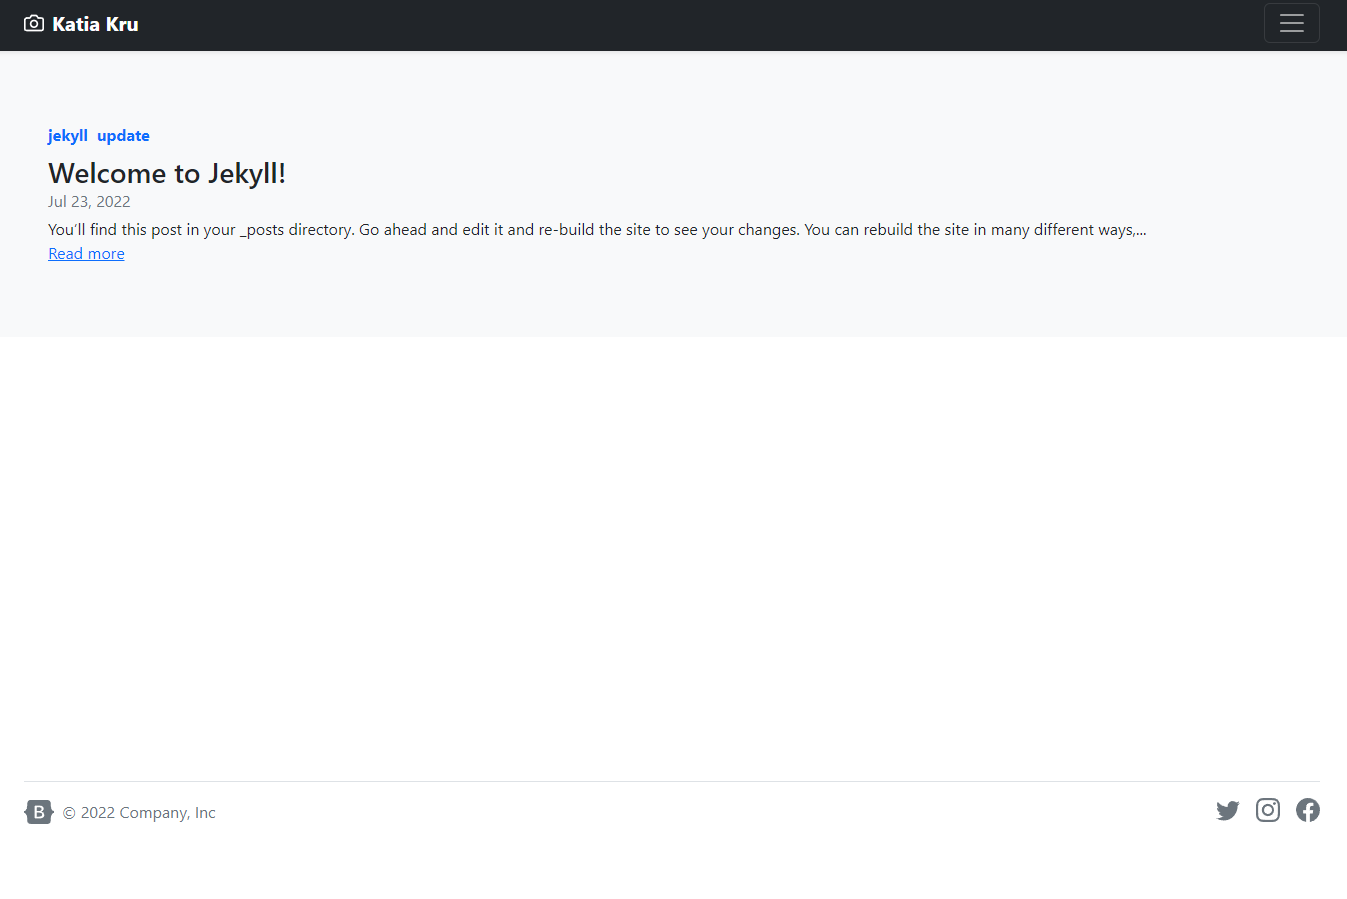
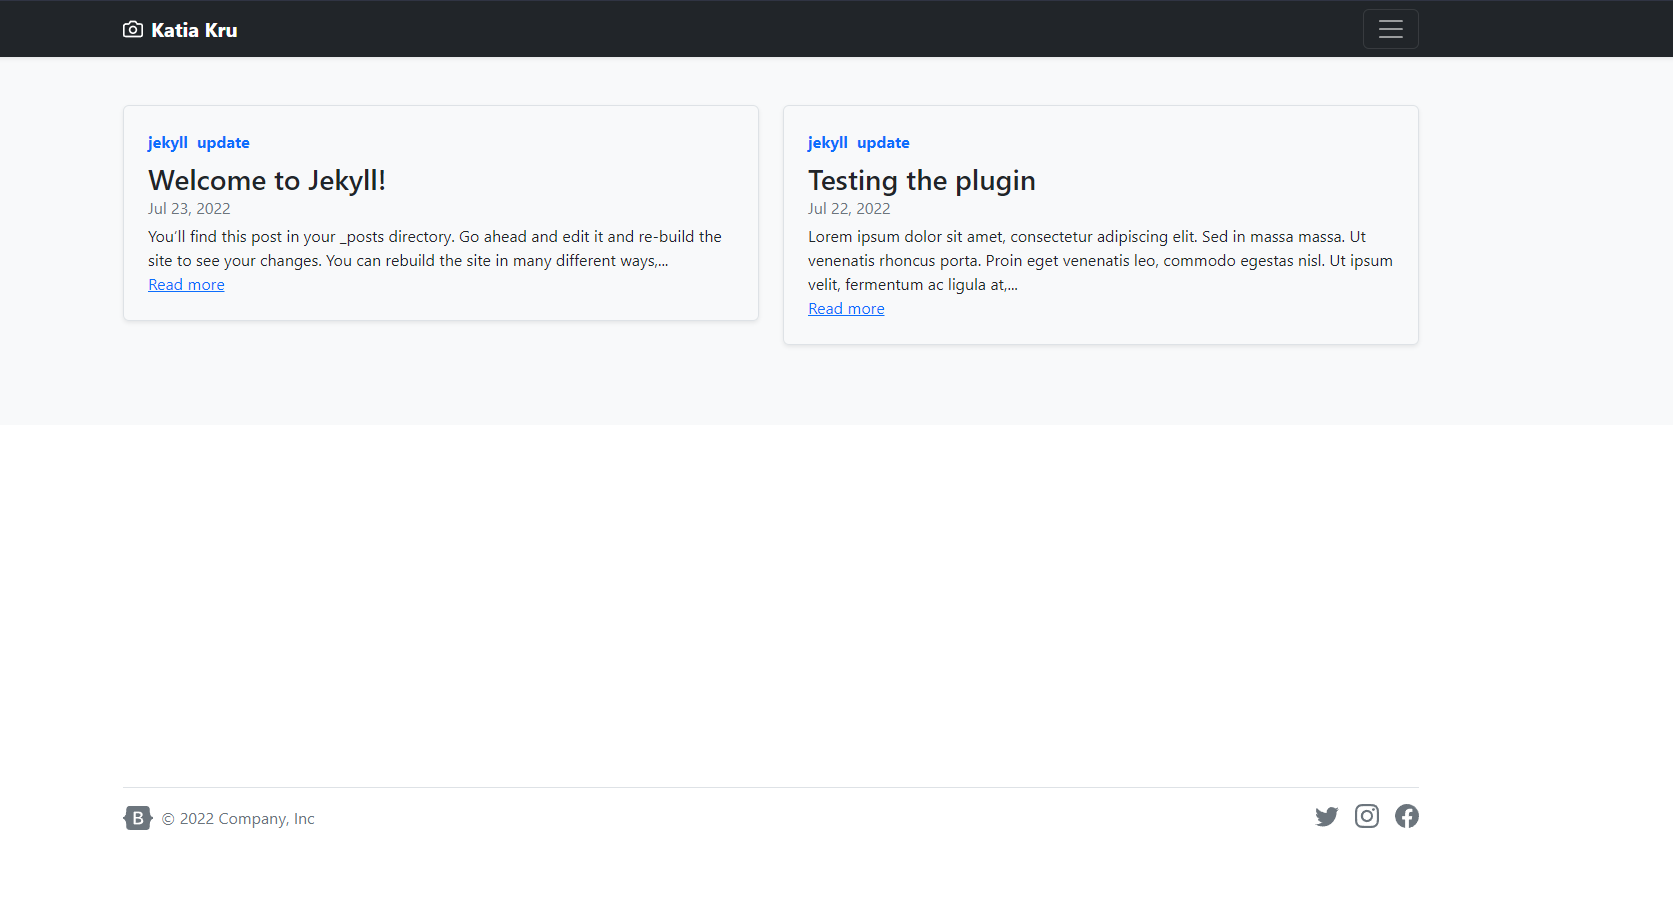
Two column layout on home page for last entries Format HTML in two files

diff --git a/_layouts/home.html b/_layouts/home.html
@@ -1,37 +1,32 @@
 ---
 layout: default
 ---
-
-
 <div class="home album py-5 bg-light">
     <div class="container">
+        {%- if page.title -%}
+        <h1 class="page-heading">{{ page.title }}</h1>
+        {%- endif -%}
+        {{ content }}
+        {% if site.paginate %}
+        {% assign posts = paginator.posts %}
+        {% else %}
+        {% assign posts = site.posts %}
+        {% endif %}
+        {%- if posts.size > 0 -%}
+        {%- if page.list_title -%}
+        <h2 class="post-list-heading">{{ page.list_title }}</h2>
+        {%- endif -%}
+        <!-- <ul class="post-list"> -->
+        {%- assign date_format = site.minima.date_format | default: "%b %-d, %Y" -%}
+        <div class="row mb-2">
 
-  {%- if page.title -%}
-    <h1 class="page-heading">{{ page.title }}</h1>
-  {%- endif -%}
-
-  {{ content }}
-
-
-  {% if site.paginate %}
-    {% assign posts = paginator.posts %}
-  {% else %}
-    {% assign posts = site.posts %}
-  {% endif %}
-
-
-  {%- if posts.size > 0 -%}
-    {%- if page.list_title -%}
-      <h2 class="post-list-heading">{{ page.list_title }}</h2>
-    {%- endif -%}
-    <!-- <ul class="post-list"> -->
-      {%- assign date_format = site.minima.date_format | default: "%b %-d, %Y" -%}
-      {%- for post in posts -%}
-
-          <div class="col p-4 d-flex flex-column position-static">
-        <!-- <div> -->
-
-            <!-- {% for tag in site.tags %}
+            {%- for post in posts -%}
+            <div class="col-md-6">
+                <div
+                    class="row g-0 border rounded overflow-hidden flex-md-row mb-4 shadow-sm h-md-250 position-relative">
+                    <div class="col p-4 d-flex flex-column position-static">
+                        <!-- <div> -->
+                        <!-- {% for tag in site.tags %}
             <h3>{{ tag[0] }}</h3>
             <ul>
               {% for postt in tag[1] %}
@@ -39,54 +34,57 @@ layout: default
               {% endfor %}
             </ul>
           {% endfor %} -->
-
-
-          <!-- <div class="col p-4 d-flex flex-column position-static"> -->
-            <strong class="d-inline-block mb-2 text-primary">
-   {%- for cat in post.categories -%}
-   {{ cat }} &nbsp;
-   {%- endfor -%}</strong>   
-            <h3 class="mb-0">{{ post.title | escape }}</h3>
-            <div class="mb-1 text-muted post-meta">{{ post.date | date: date_format }}</div>
-            <p class="card-text mb-auto">{{ post.content| strip_html | truncatewords: 30  }}</p>
-            <a  class="stretched-link" href="{{ post.url | relative_url }}">Read more</a>
-          </div>
-      
-
-
-      <!-- <li> -->
-        <!-- <span class="post-meta">{{ post.date | date: date_format }}</span>
+                        <!-- <div class="col p-4 d-flex flex-column position-static"> -->
+                        <strong class="d-inline-block mb-2 text-primary">
+                            {%- for cat in post.categories -%}
+                            {{ cat }} &nbsp;
+                            {%- endfor -%}</strong>
+                        <h3 class="mb-0">{{ post.title | escape }}</h3>
+                        <div class="mb-1 text-muted post-meta">{{ post.date | date: date_format }}</div>
+                        <p class="card-text mb-auto">{{ post.content| strip_html | truncatewords: 30 }}</p>
+                        <a class="stretched-link" href="{{ post.url | relative_url }}">Read more</a>
+                    </div>
+                </div>
+            </div>
+            <!-- <li> -->
+            <!-- <span class="post-meta">{{ post.date | date: date_format }}</span>
         <h3>
           <a class="post-link" href="{{ post.url | relative_url }}">
             {{ post.title | escape }}
           </a>
         </h3> -->
-        {%- if site.show_excerpts -%}
-          {{ post.excerpt }}
+            {%- if site.show_excerpts -%}
+            {{ post.excerpt }}
+            {%- endif -%}
+            <!-- </li> -->
+            {%- endfor -%}
+        </div>
+        <!-- </ul> -->
+        {% if site.paginate %}
+        <div class="pager">
+            <ul class="pagination">
+                {%- if paginator.previous_page %}
+                <li><a href="{{ paginator.previous_page_path | relative_url }}" class="previous-page">{{
+                        paginator.previous_page }}</a></li>
+                {%- else %}
+                <li>
+                    <div class="pager-edge">•</div>
+                </li>
+                {%- endif %}
+                <li>
+                    <div class="current-page">{{ paginator.page }}</div>
+                </li>
+                {%- if paginator.next_page %}
+                <li><a href="{{ paginator.next_page_path | relative_url }}" class="next-page">{{ paginator.next_page
+                        }}</a></li>
+                {%- else %}
+                <li>
+                    <div class="pager-edge">•</div>
+                </li>
+                {%- endif %}
+            </ul>
+        </div>
+        {%- endif %}
         {%- endif -%}
-      <!-- </li> -->
-      {%- endfor -%}
-    <!-- </ul> -->
-
-    {% if site.paginate %}
-      <div class="pager">
-        <ul class="pagination">
-        {%- if paginator.previous_page %}
-          <li><a href="{{ paginator.previous_page_path | relative_url }}" class="previous-page">{{ paginator.previous_page }}</a></li>
-        {%- else %}
-          <li><div class="pager-edge">•</div></li>
-        {%- endif %}
-          <li><div class="current-page">{{ paginator.page }}</div></li>
-        {%- if paginator.next_page %}
-          <li><a href="{{ paginator.next_page_path | relative_url }}" class="next-page">{{ paginator.next_page }}</a></li>
-        {%- else %}
-          <li><div class="pager-edge">•</div></li>
-        {%- endif %}
-        </ul>
-      </div>
-    {%- endif %}
-
-  {%- endif -%}
-
-</div>
+    </div>
 </div>

diff --git a/_layouts/post.html b/_layouts/post.html
@@ -1,38 +1,39 @@
 ---
 layout: default
 ---
-<article class="post h-entry" itemscope itemtype="http://schema.org/BlogPosting">
-
-  <header class="post-header">
-    <h1 class="post-title p-name" itemprop="name headline">{{ page.title | escape }}</h1>
-    <p class="post-meta">
-      {%- assign date_format = site.minima.date_format | default: "%b %-d, %Y" -%}
-      <time class="dt-published" datetime="{{ page.date | date_to_xmlschema }}" itemprop="datePublished">
-        {{ page.date | date: date_format }}
-      </time>
-      {%- if page.modified_date -%}
-        ~ 
-        {%- assign mdate = page.modified_date | date_to_xmlschema -%}
-        <time class="dt-modified" datetime="{{ mdate }}" itemprop="dateModified">
-          {{ mdate | date: date_format }}
-        </time>
-      {%- endif -%}
-      {%- if page.author -%}
-        • {% for author in page.author %}
-          <span itemprop="author" itemscope itemtype="http://schema.org/Person">
-            <span class="p-author h-card" itemprop="name">{{ author }}</span></span>
-            {%- if forloop.last == false %}, {% endif -%}
-        {% endfor %}
-      {%- endif -%}</p>
-  </header>
-
-  <div class="post-content e-content" itemprop="articleBody">
-    {{ content }}
-  </div>
-
-  {%- if site.disqus.shortname -%}
-    {%- include disqus_comments.html -%}
-  {%- endif -%}
-
-  <a class="u-url" href="{{ page.url | relative_url }}" hidden></a>
-</article>
+<div class="container">
+    <article class="post h-entry  " itemscope itemtype="http://schema.org/BlogPosting">
+        <div class="col p-4 d-flex flex-column position-static">
+            <header class="post-header">
+                <h1 class="post-title p-name" itemprop="name headline">{{ page.title | escape }}</h1>
+                <p class="post-meta">
+                    {%- assign date_format = site.minima.date_format | default: "%b %-d, %Y" -%}
+                    <time class="dt-published" datetime="{{ page.date | date_to_xmlschema }}" itemprop="datePublished">
+                        {{ page.date | date: date_format }}
+                    </time>
+                    {%- if page.modified_date -%}
+                    ~
+                    {%- assign mdate = page.modified_date | date_to_xmlschema -%}
+                    <time class="dt-modified" datetime="{{ mdate }}" itemprop="dateModified">
+                        {{ mdate | date: date_format }}
+                    </time>
+                    {%- endif -%}
+                    {%- if page.author -%}
+                    • {% for author in page.author %}
+                    <span itemprop="author" itemscope itemtype="http://schema.org/Person">
+                        <span class="p-author h-card" itemprop="name">{{ author }}</span></span>
+                    {%- if forloop.last == false %}, {% endif -%}
+                    {% endfor %}
+                    {%- endif -%}
+                </p>
+            </header>
+            <div class="post-content e-content" itemprop="articleBody">
+                {{ content }}
+            </div>
+            {%- if site.disqus.shortname -%}
+            {%- include disqus_comments.html -%}
+            {%- endif -%}
+            <a class="u-url" href="{{ page.url | relative_url }}" hidden></a>
+        </div>
+    </article>
+</div>

diff --git a/_includes/header.html b/_includes/header.html
@@ -22,7 +22,7 @@
         {%- assign default_paths = site.pages | map: "path" -%}
         {%- assign page_paths = site.header_pages | default: default_paths -%}
         {%- assign titles_size = site.pages | map: 'title' | join: '' | size -%}
-        <a href="#" class="navbar-brand d-flex align-items-center" href="{{ "/" | relative_url }}">
+        <a  class="navbar-brand d-flex align-items-center" href="{{ "/" | relative_url }}">
           <svg xmlns="http://www.w3.org/2000/svg" width="20" height="20" fill="none" stroke="currentColor" stroke-linecap="round" stroke-linejoin="round" stroke-width="2" aria-hidden="true" class="me-2" viewBox="0 0 24 24"><path d="M23 19a2 2 0 0 1-2 2H3a2 2 0 0 1-2-2V8a2 2 0 0 1 2-2h4l2-3h6l2 3h4a2 2 0 0 1 2 2z"/><circle cx="12" cy="13" r="4"/></svg>
           <strong>{{ site.title | escape }}</strong>
         </a>

diff --git a/README.md b/README.md
@@ -1,6 +1,6 @@
 # jekyll-theme-devcarpet-01
 
-Jekyll Bootstrap 5 Template. Recommended for Jekyl + Strapi 4.
+Jekyll Bootstrap 5 Template. Recommended for Jekyll + Strapi 4.
 
 This template is my first Jekyll template and it started as modification of minima template.
 
